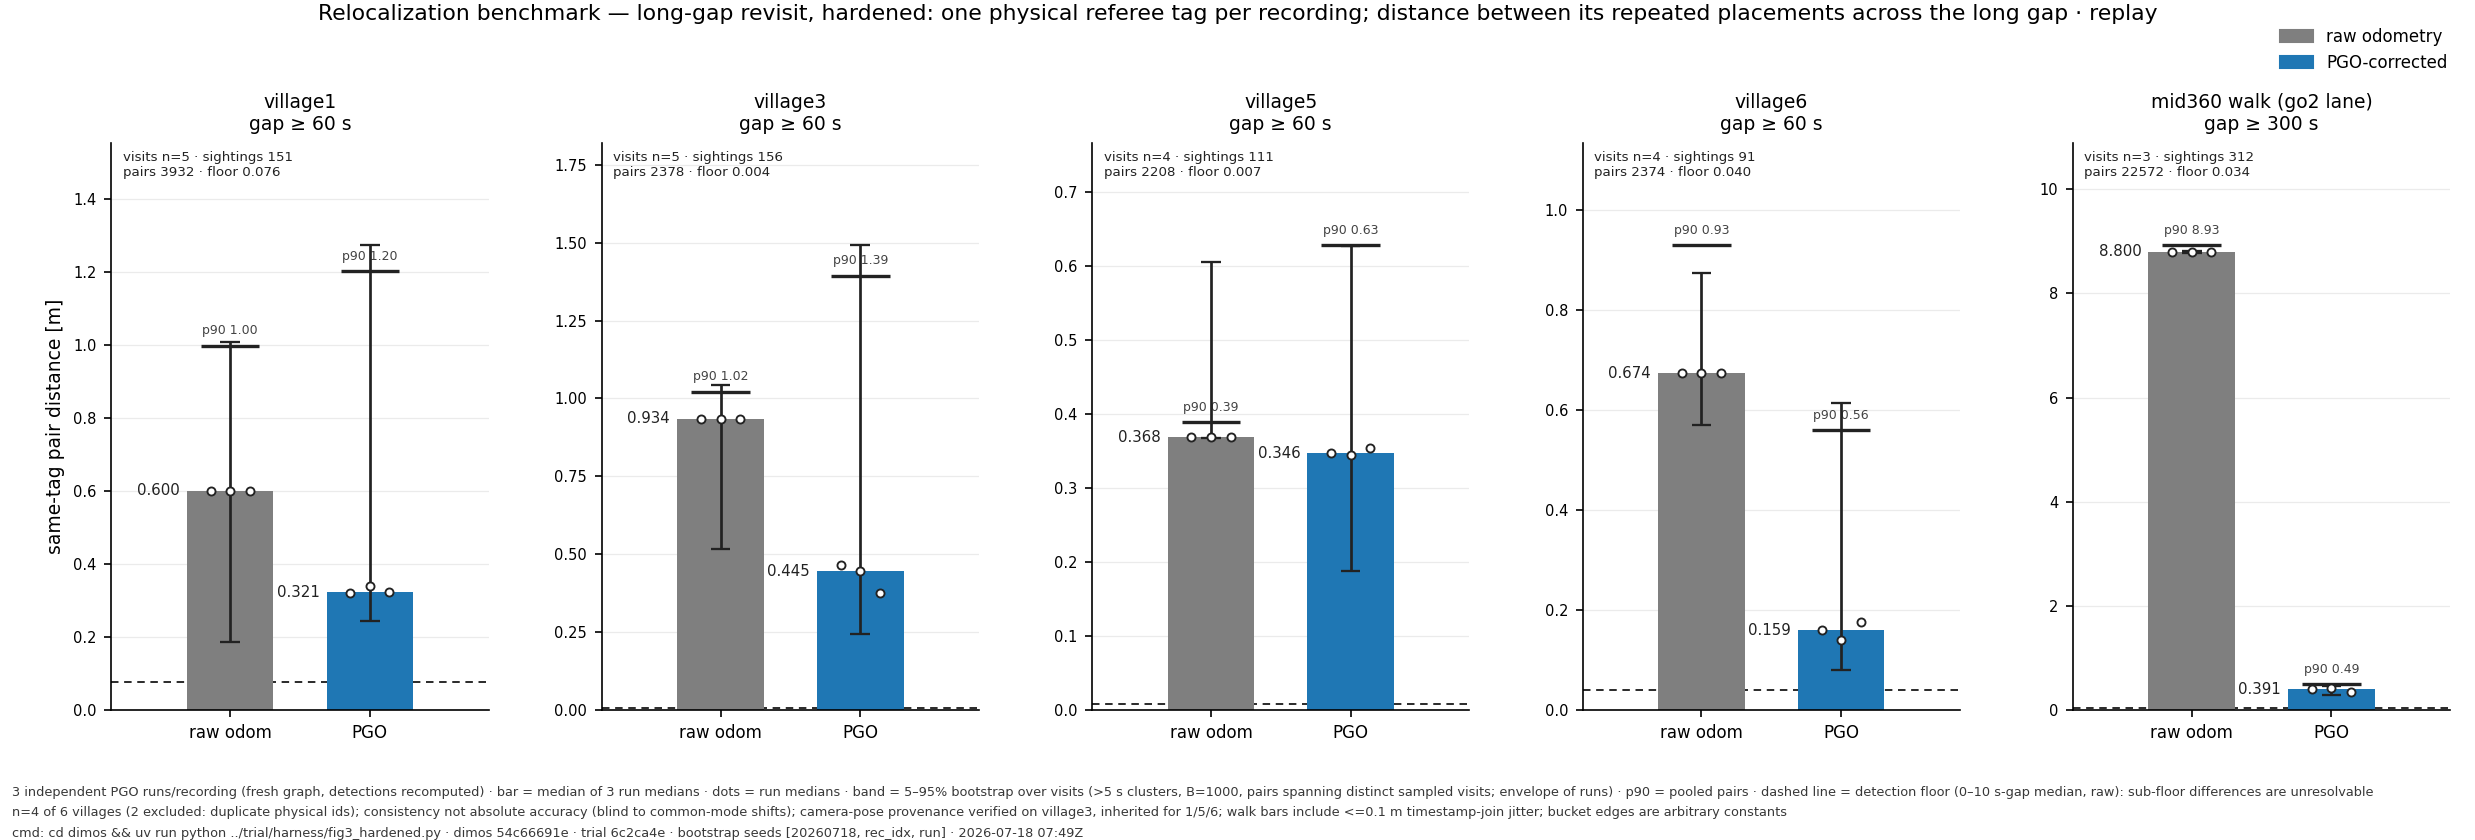
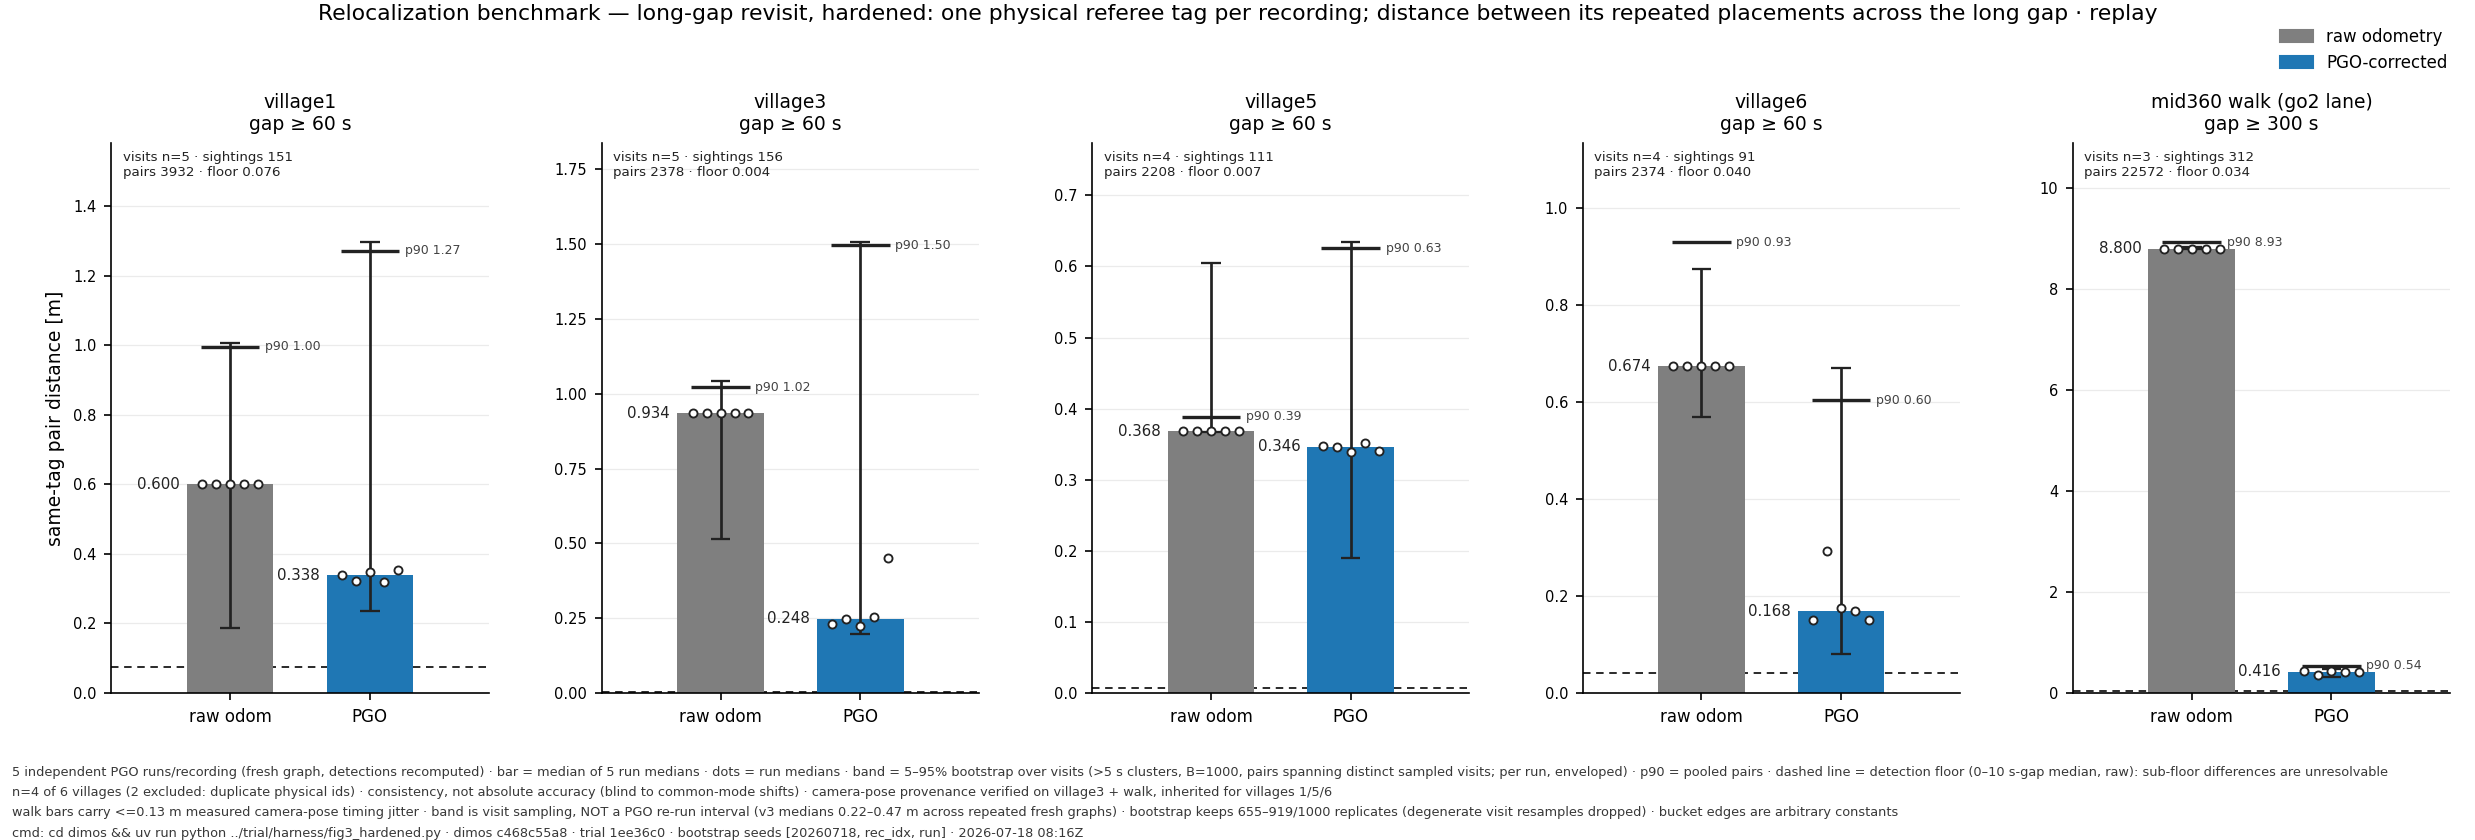
fig3_hardened artifacts: 5-run sweep (dimos c468c55a8, trial 1ee36c0, 662 s)
Raw medians bit-identical to the 3-run sweep on all 5 recordings
(0.600/0.934/0.368/0.674/8.800) and the seeded raw bootstrap reproduces
run-0 bit-exact — detection + bootstrap fully deterministic; only PGO
moves. New 5-run PGO bars (m): v1 0.338 · v3 0.248 · v5 0.346 · v6
0.168 · walk 0.416. Full numbers: out/markers/fig3_hardened.json
(gitignored by out/ policy, like every run artifact).

village3's 5 fresh draws: 0.230/0.248/0.223/0.255/0.452 — the low mode
dominated this time, bar moved 0.445 -> 0.248, directly confirming the
verifier's draw-instability finding (all 10 known v3 draws: 0.223-0.466;
neither 'canon 0.233' nor the 3-run 0.38-0.47 story was typical — the
honest statement is the range, now printed on the figure). Verifier's
independent draws land inside the new bands (v3 0.223 in [0.195,1.507];
walk 0.379 in [0.317,0.481]). PGO pooled p90 still exceeds raw p90 on
v1 (1.27 vs 1.00) and v3 (1.50 vs 1.02) — median improves, tail worsens.

Includes a docstring-only word fix ('three runs' -> 'runs') made after
the sweep launched; the stamped trial rev 1ee36c0 is behaviorally
identical to this script.

diff --git a/trial/harness/fig3_hardened.py b/trial/harness/fig3_hardened.py
@@ -34,7 +34,7 @@ named hole in the naive figure closed:
                         independent y per panel, values annotated.
 
 Raw pair distances are graph-independent (detection is deterministic), so the
-three runs move only the PGO series — asserted at runtime, not assumed.
+runs move only the PGO series — asserted at runtime, not assumed.
 
 Run: cd dimos && uv run python ../trial/harness/fig3_hardened.py
 Output: trial/results/figures/revisit_medians_hardened.png